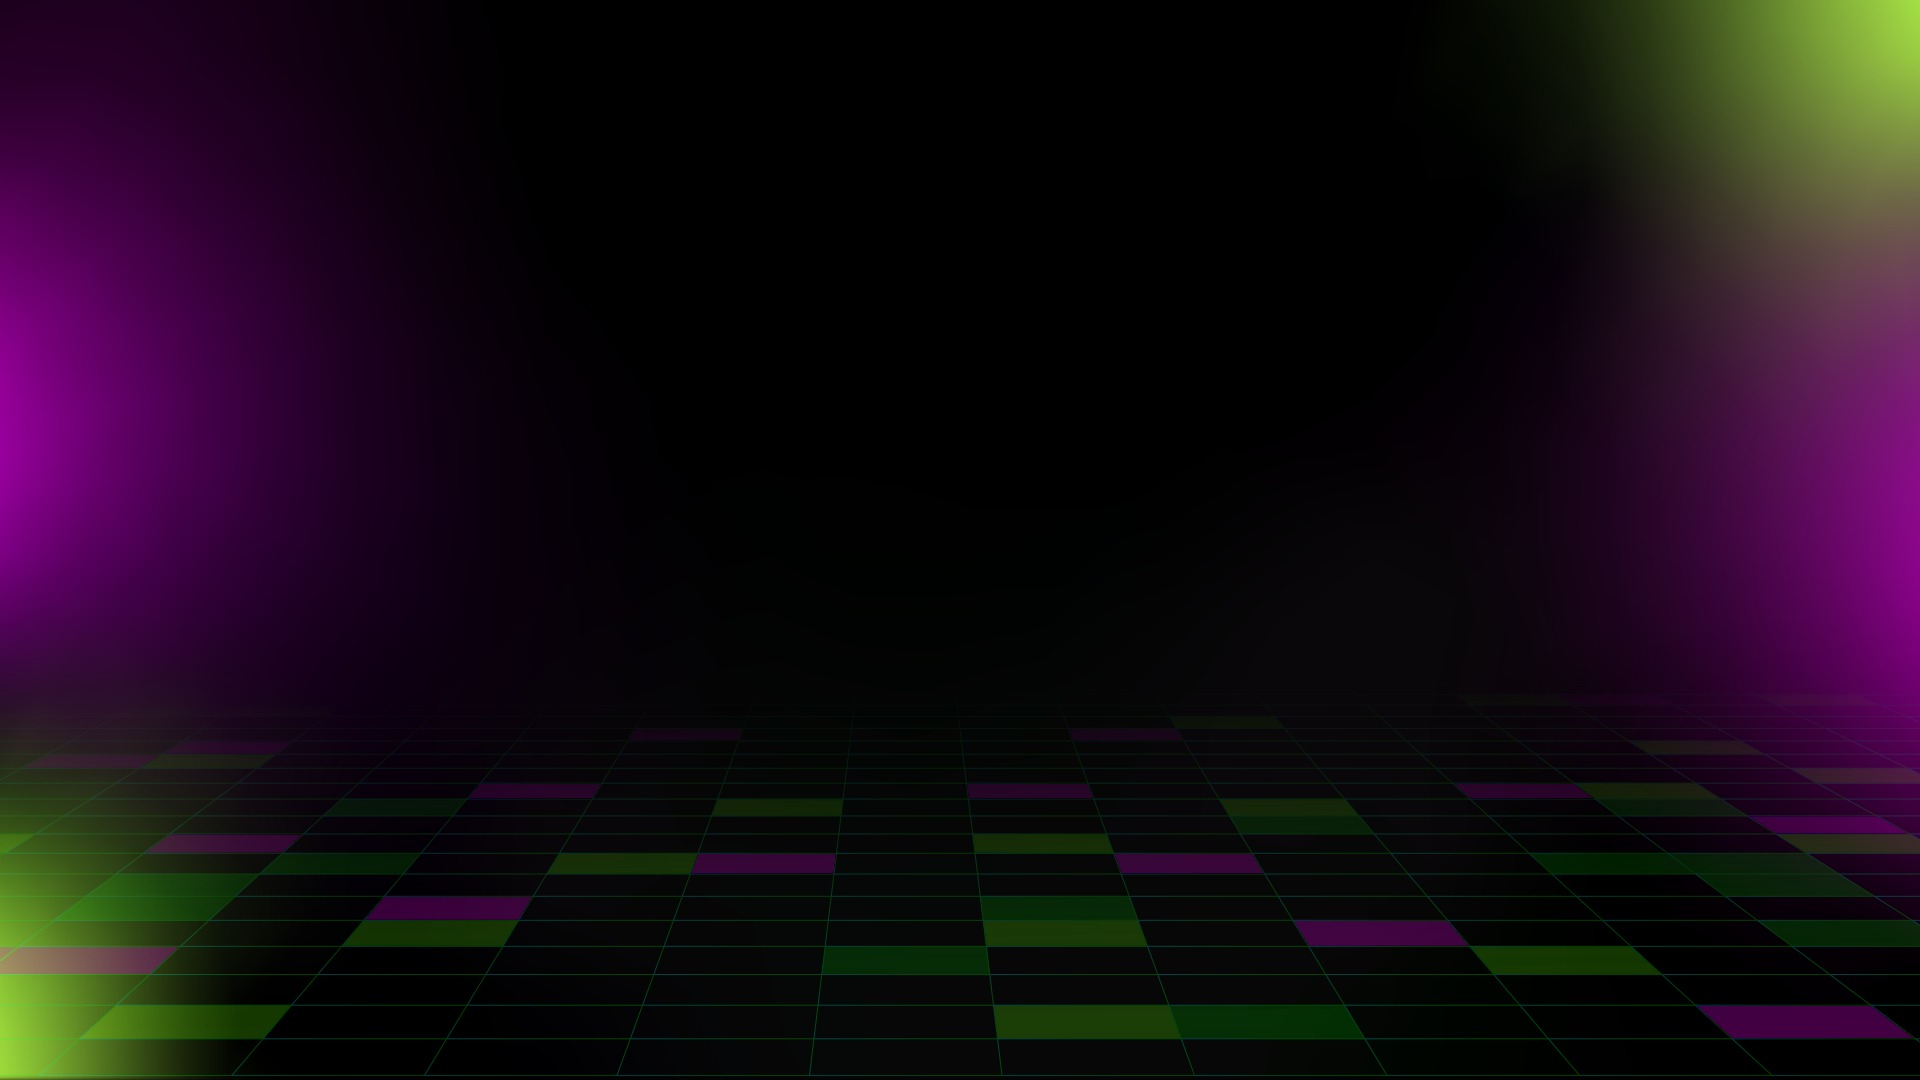
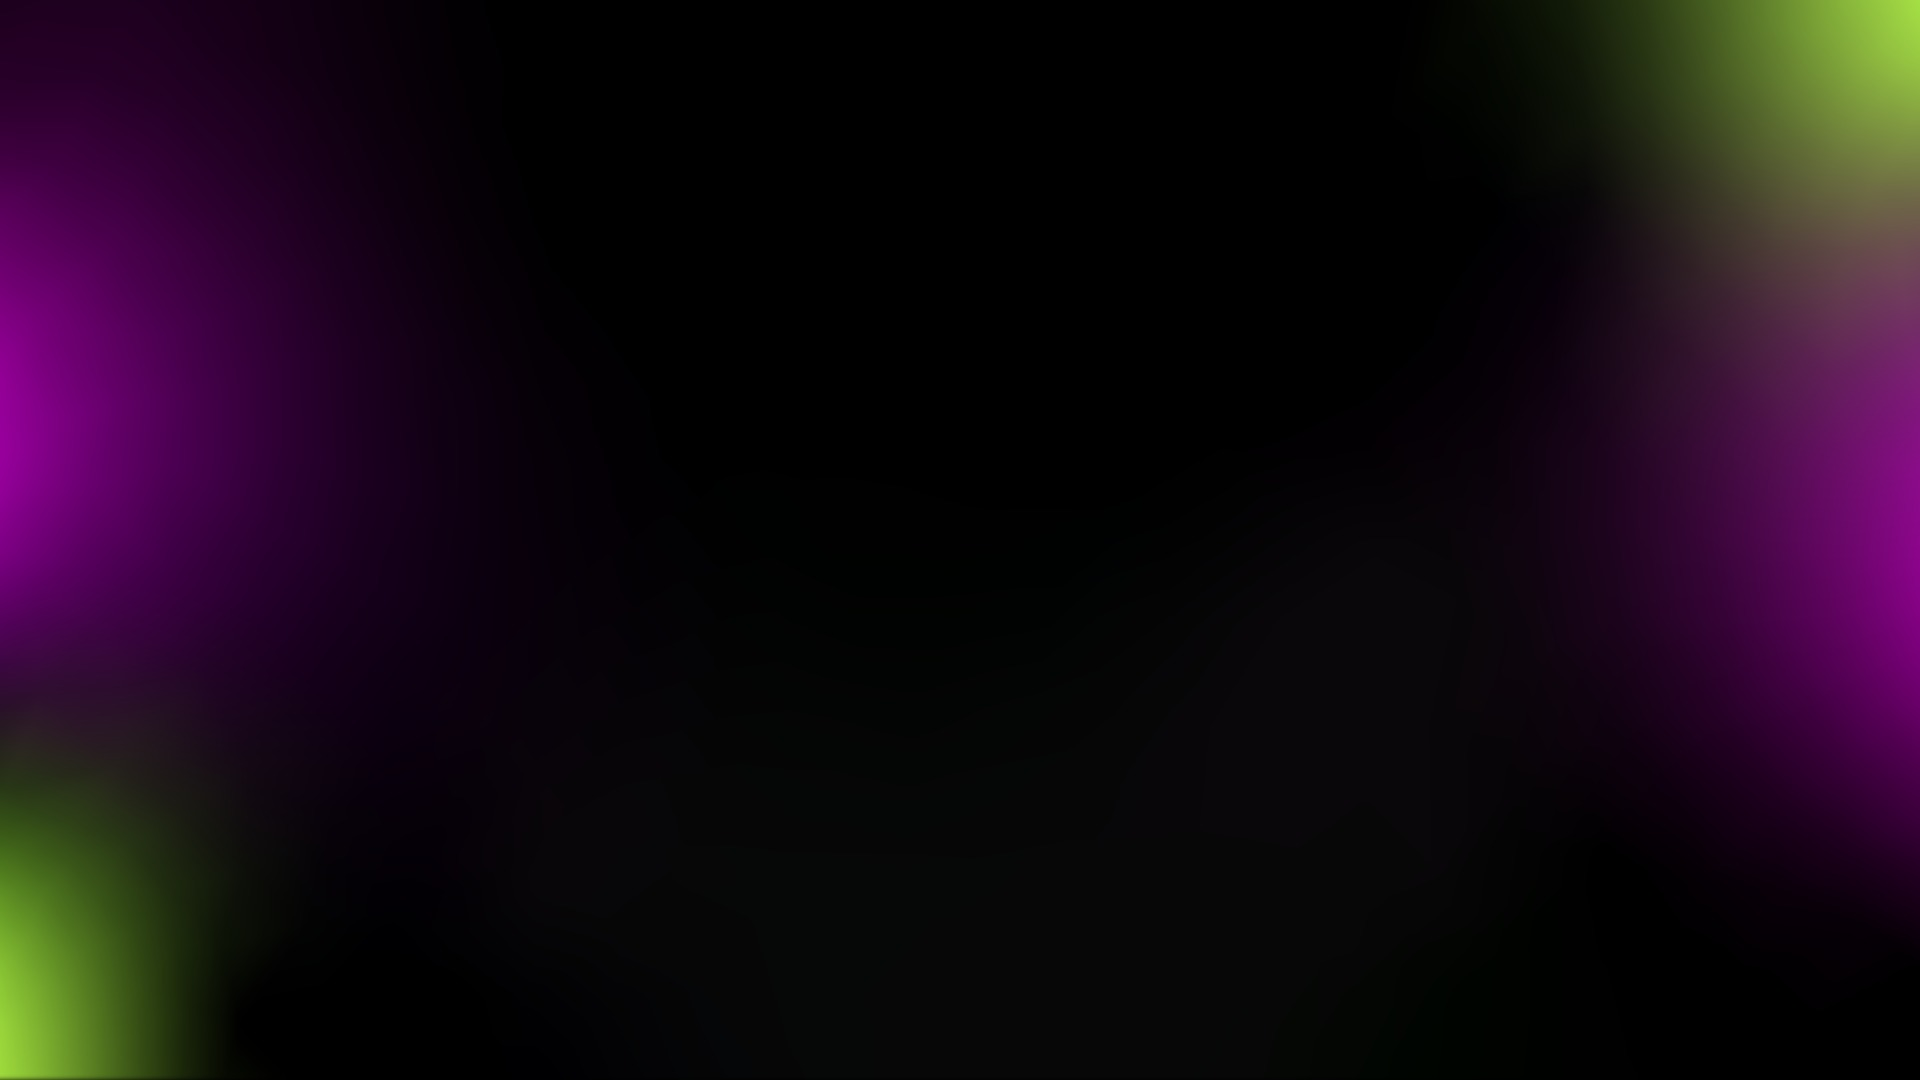
[task]地板動作

diff --git a/js/lib/floor.js b/js/lib/floor.js
@@ -1,0 +1,153 @@
+/* =========================================================
+   floor.js — 每一頁共用的地板動畫
+
+   背景圖（bg.jpg）現在只有上面的光暈，地板改成用程式畫在 <canvas id="floor"> 上，
+   這樣地磚的色塊才能一格一格隨機亮起來、再暗下去。
+
+   畫法：把地板想成一大片方格，每一格離我們越遠就畫得越小、越靠近地平線（透視）。
+   每一格都有自己的節奏：隔一段時間（每格不一樣長）輪到它一次，
+   輪到時擲一次骰子決定這一輪要不要亮、亮什麼顏色，要亮的話就慢慢亮起來再慢慢暗掉。
+   因為每一格的節奏都錯開，看起來就是色塊在地板上隨機閃爍。
+
+   想調整的數字都集中在下面的 FLOOR。
+   ========================================================= */
+
+(function () {
+
+  const FLOOR = {
+    blink: true,            // 色塊要不要隨機閃爍（false = 色塊固定不變）
+    blinkMin: 1.2,          // 一格亮一次最短幾秒
+    blinkMax: 3.5,          // 一格亮一次最長幾秒（每一格會在這兩個數字之間各自不同）
+    blinkSharp: 2,          // 閃的俐落程度：1 = 慢慢亮慢慢暗，數字越大亮的時間越短、越像「閃一下」
+
+    mode: "still",          // 整片地板的移動："still" = 不動　"swing" = 往前再往後來回　"forward" = 一直往前跑
+    swingTiles: 3,          // swing：來回各移動幾格
+    swingSeconds: 6,        // swing：來回一趟幾秒
+    forwardSpeed: 1.2,      // forward：每秒往前幾格
+
+    tileSize: 170,          // 最靠近我們的那一排，一格有多寬（px）
+    rowHeight: 38,          // 最靠近我們的那一排，一格看起來有多高（px），越小代表視角越貼近地面
+    fadeStart: 0.1,         // 離地平線多近開始看得到（0 ~ 1，越小看得越遠）
+    fadeEnd: 0.55,          // 到這裡完全不透明
+
+    colorChance: 0.3,       // 每一格每一輪有多少機率會亮
+    colors: ["#0b2e12", "#2a3b12", "#3a0042", "#4d0057", "#103d1c"],   // 地磚的顏色（取自 AI 檔）
+    lineColor: "rgba(0, 150, 110, 0.45)",                              // 格線的顏色
+    lineWidth: 1.5
+  };
+
+  const canvas = document.getElementById("floor");
+  if (!canvas) { return; }
+  const ctx = canvas.getContext("2d");
+  const W = canvas.width;           // 1920
+  const H = canvas.height;          // 地平線（canvas 最上面）到畫面最下面的高度
+  const centerX = W / 2;            // 所有往遠方的線都朝這一點集中
+
+  // 鏡頭離畫面的「距離」，由上面兩個數字決定：讓最近那排剛好是 tileSize 寬、rowHeight 高
+  const DEPTH = H * FLOOR.tileSize / FLOOR.rowHeight - FLOOR.tileSize;
+
+  // 離我們 z 遠的東西要縮小成幾倍（z = 0 是畫面最下面那條邊，倍率 1）
+  function scaleAt(z) {
+    return DEPTH / (DEPTH + z);
+  }
+  // 地板上的一個點 (x, z) → 畫面上的位置
+  function screenX(x, z) { return centerX + x * scaleAt(z); }
+  function screenY(z) { return H * scaleAt(z); }
+
+  // 用「第幾列、第幾排、第幾輪」算出一個固定的 0~1 數字（看起來像亂數，但同樣的輸入永遠得到同樣的結果）
+  function tileNumber(column, row, round) {
+    const n = Math.sin(column * 127.1 + row * 311.7 + round * 74.7) * 43758.5453;
+    return n - Math.floor(n);
+  }
+
+  // 最遠要畫到哪：縮到 fadeStart 倍以下就看不到了
+  const farZ = DEPTH * (1 / FLOOR.fadeStart - 1);
+
+  // 最上面漸漸消失的漸層
+  const fade = ctx.createLinearGradient(0, H * FLOOR.fadeStart, 0, H * FLOOR.fadeEnd);
+  fade.addColorStop(0, "rgba(0,0,0,0)");
+  fade.addColorStop(1, "rgba(0,0,0,1)");
+
+  function draw(now) {
+    const t = now / 1000;
+    const T = FLOOR.tileSize;
+
+    // 地板現在往前移動了多少（單位 px）
+    let offset = 0;
+    if (FLOOR.mode === "swing") {
+      offset = Math.sin(t / FLOOR.swingSeconds * Math.PI * 2) * FLOOR.swingTiles * T;
+    } else if (FLOOR.mode === "forward") {
+      offset = t * FLOOR.forwardSpeed * T;
+    }
+
+    ctx.globalCompositeOperation = "source-over";
+    ctx.clearRect(0, 0, W, H);
+
+    // 第一排是第幾排、它的下緣在哪（會是負的或 0，代表有一部分已經超出畫面下方）
+    const firstRow = Math.floor(offset / T);
+    const startZ = firstRow * T - offset;
+
+    // ---- 上色的地磚 ----
+    for (let z = startZ, row = firstRow; z < farZ; z += T, row++) {
+      const near = Math.max(0, z);
+      const far = z + T;
+      const reach = Math.ceil(centerX / scaleAt(far) / T) + 1;     // 這一排左右各要畫幾格才會蓋滿畫面
+      for (let column = -reach; column < reach; column++) {
+        let round = 0;          // 這一格現在是第幾輪
+        let brightness = 1;     // 這一格現在多亮（0 ~ 1）
+        if (FLOOR.blink) {
+          // 這一格自己的節奏：多久一輪、從哪裡開始算（每一格都不一樣，而且固定）
+          const period = FLOOR.blinkMin + tileNumber(column, row, -1) * (FLOOR.blinkMax - FLOOR.blinkMin);
+          const position = t / period + tileNumber(column, row, -2);
+          round = Math.floor(position);
+          // 一輪裡面：從暗 → 最亮 → 暗
+          brightness = Math.pow(Math.sin((position - round) * Math.PI), FLOOR.blinkSharp);
+        }
+        const number = tileNumber(column, row, round);
+        if (number > FLOOR.colorChance) { continue; }
+        ctx.globalAlpha = brightness;
+        ctx.fillStyle = FLOOR.colors[Math.floor(number / FLOOR.colorChance * FLOOR.colors.length)];
+        const x0 = column * T, x1 = x0 + T;
+        ctx.beginPath();
+        ctx.moveTo(screenX(x0, near), screenY(near));
+        ctx.lineTo(screenX(x1, near), screenY(near));
+        ctx.lineTo(screenX(x1, far), screenY(far));
+        ctx.lineTo(screenX(x0, far), screenY(far));
+        ctx.fill();
+      }
+    }
+
+    ctx.globalAlpha = 1;
+
+    // ---- 格線 ----
+    ctx.strokeStyle = FLOOR.lineColor;
+    ctx.lineWidth = FLOOR.lineWidth;
+    ctx.beginPath();
+    // 橫線：每一排一條
+    for (let z = startZ; z < farZ; z += T) {
+      if (z < 0) { continue; }
+      const y = screenY(z);
+      ctx.moveTo(0, y);
+      ctx.lineTo(W, y);
+    }
+    // 直線：從最遠處一路拉到畫面最下面
+    const reachFar = Math.ceil(centerX / scaleAt(farZ) / T) + 1;
+    for (let column = -reachFar; column <= reachFar; column++) {
+      const x = column * T;
+      ctx.moveTo(screenX(x, farZ), screenY(farZ));
+      ctx.lineTo(screenX(x, 0), screenY(0));
+    }
+    ctx.stroke();
+
+    // ---- 靠近地平線的地方漸漸消失 ----
+    ctx.globalCompositeOperation = "destination-in";
+    ctx.fillStyle = fade;
+    ctx.fillRect(0, 0, W, H);
+
+    if (FLOOR.blink || FLOOR.mode !== "still") {
+      requestAnimationFrame(draw);
+    }
+  }
+
+  requestAnimationFrame(draw);
+})();

diff --git a/index.html b/index.html
@@ -25,8 +25,9 @@
   每個 <section class="screen"> 是一個畫面，同一時間只會顯示一個。
 -->
     <div id="stage">
-      <!-- 每一頁共用的背景（AI 檔的「背景」+「地板」圖層） -->
+      <!-- 每一頁共用的背景：bg 是 AI 檔的「背景」圖層（光暈），地板用程式畫在 canvas 上才能動（js/lib/floor.js） -->
       <div class="bg"></div>
+      <canvas class="floor" id="floor" width="1920" height="480"></canvas>
 
       <!-- ============ 0.0 首頁 ============ -->
       <section class="screen" id="screen-home">
@@ -219,6 +220,8 @@
     <!-- 自動去背、做貼圖 -->
     <script src="js/lib/lowpoly.js"></script>
     <!-- 低面數 3D 小人 -->
+    <script src="js/lib/floor.js"></script>
+    <!-- 會動的地板 -->
     <script src="js/screens/home.js"></script>
     <script src="js/screens/dictionary.js"></script>
     <script src="js/screens/intro.js"></script>

diff --git a/css/base.css b/css/base.css
@@ -115,6 +115,15 @@ p.en {
   background: url("../assets/images/bg.jpg") center / cover no-repeat;
 }
 
+/* 每一頁共用的地板（會動，js/lib/floor.js 畫的）。top = 地平線的位置 */
+.floor {
+  position: absolute;
+  left: 0;
+  top: 600px;
+  width: 1920px;
+  height: 480px;
+}
+
 /* ---------- 畫面切換 ---------- */
 .screen {
   position: absolute;

diff --git a/README.md b/README.md
@@ -43,9 +43,10 @@ js/
   main.js             啟動、畫布縮放
   lib/cutout.js       自動去背、偵測五官、把照片切成頭和身體的貼圖（眼睛放大改最上面的 FACE）
   lib/lowpoly.js      低面數 3D 小人（比例改最上面的 BODY，舞步改 DANCE_MOVES）
+  lib/floor.js        每一頁共用的地板，色塊會隨機閃爍（閃爍速度、顏色改最上面的 FLOOR）
   screens/            每個畫面一個檔案
 assets/
-  images/             bg.jpg（共用背景）、title.png（主視覺字）、deco.png（首頁裝飾）
+  images/             bg.jpg（共用背景的光暈，地板是程式畫的）、title.png（主視覺字）、deco.png（首頁裝飾）
   audio/              音樂檔放這裡
 ```
 
